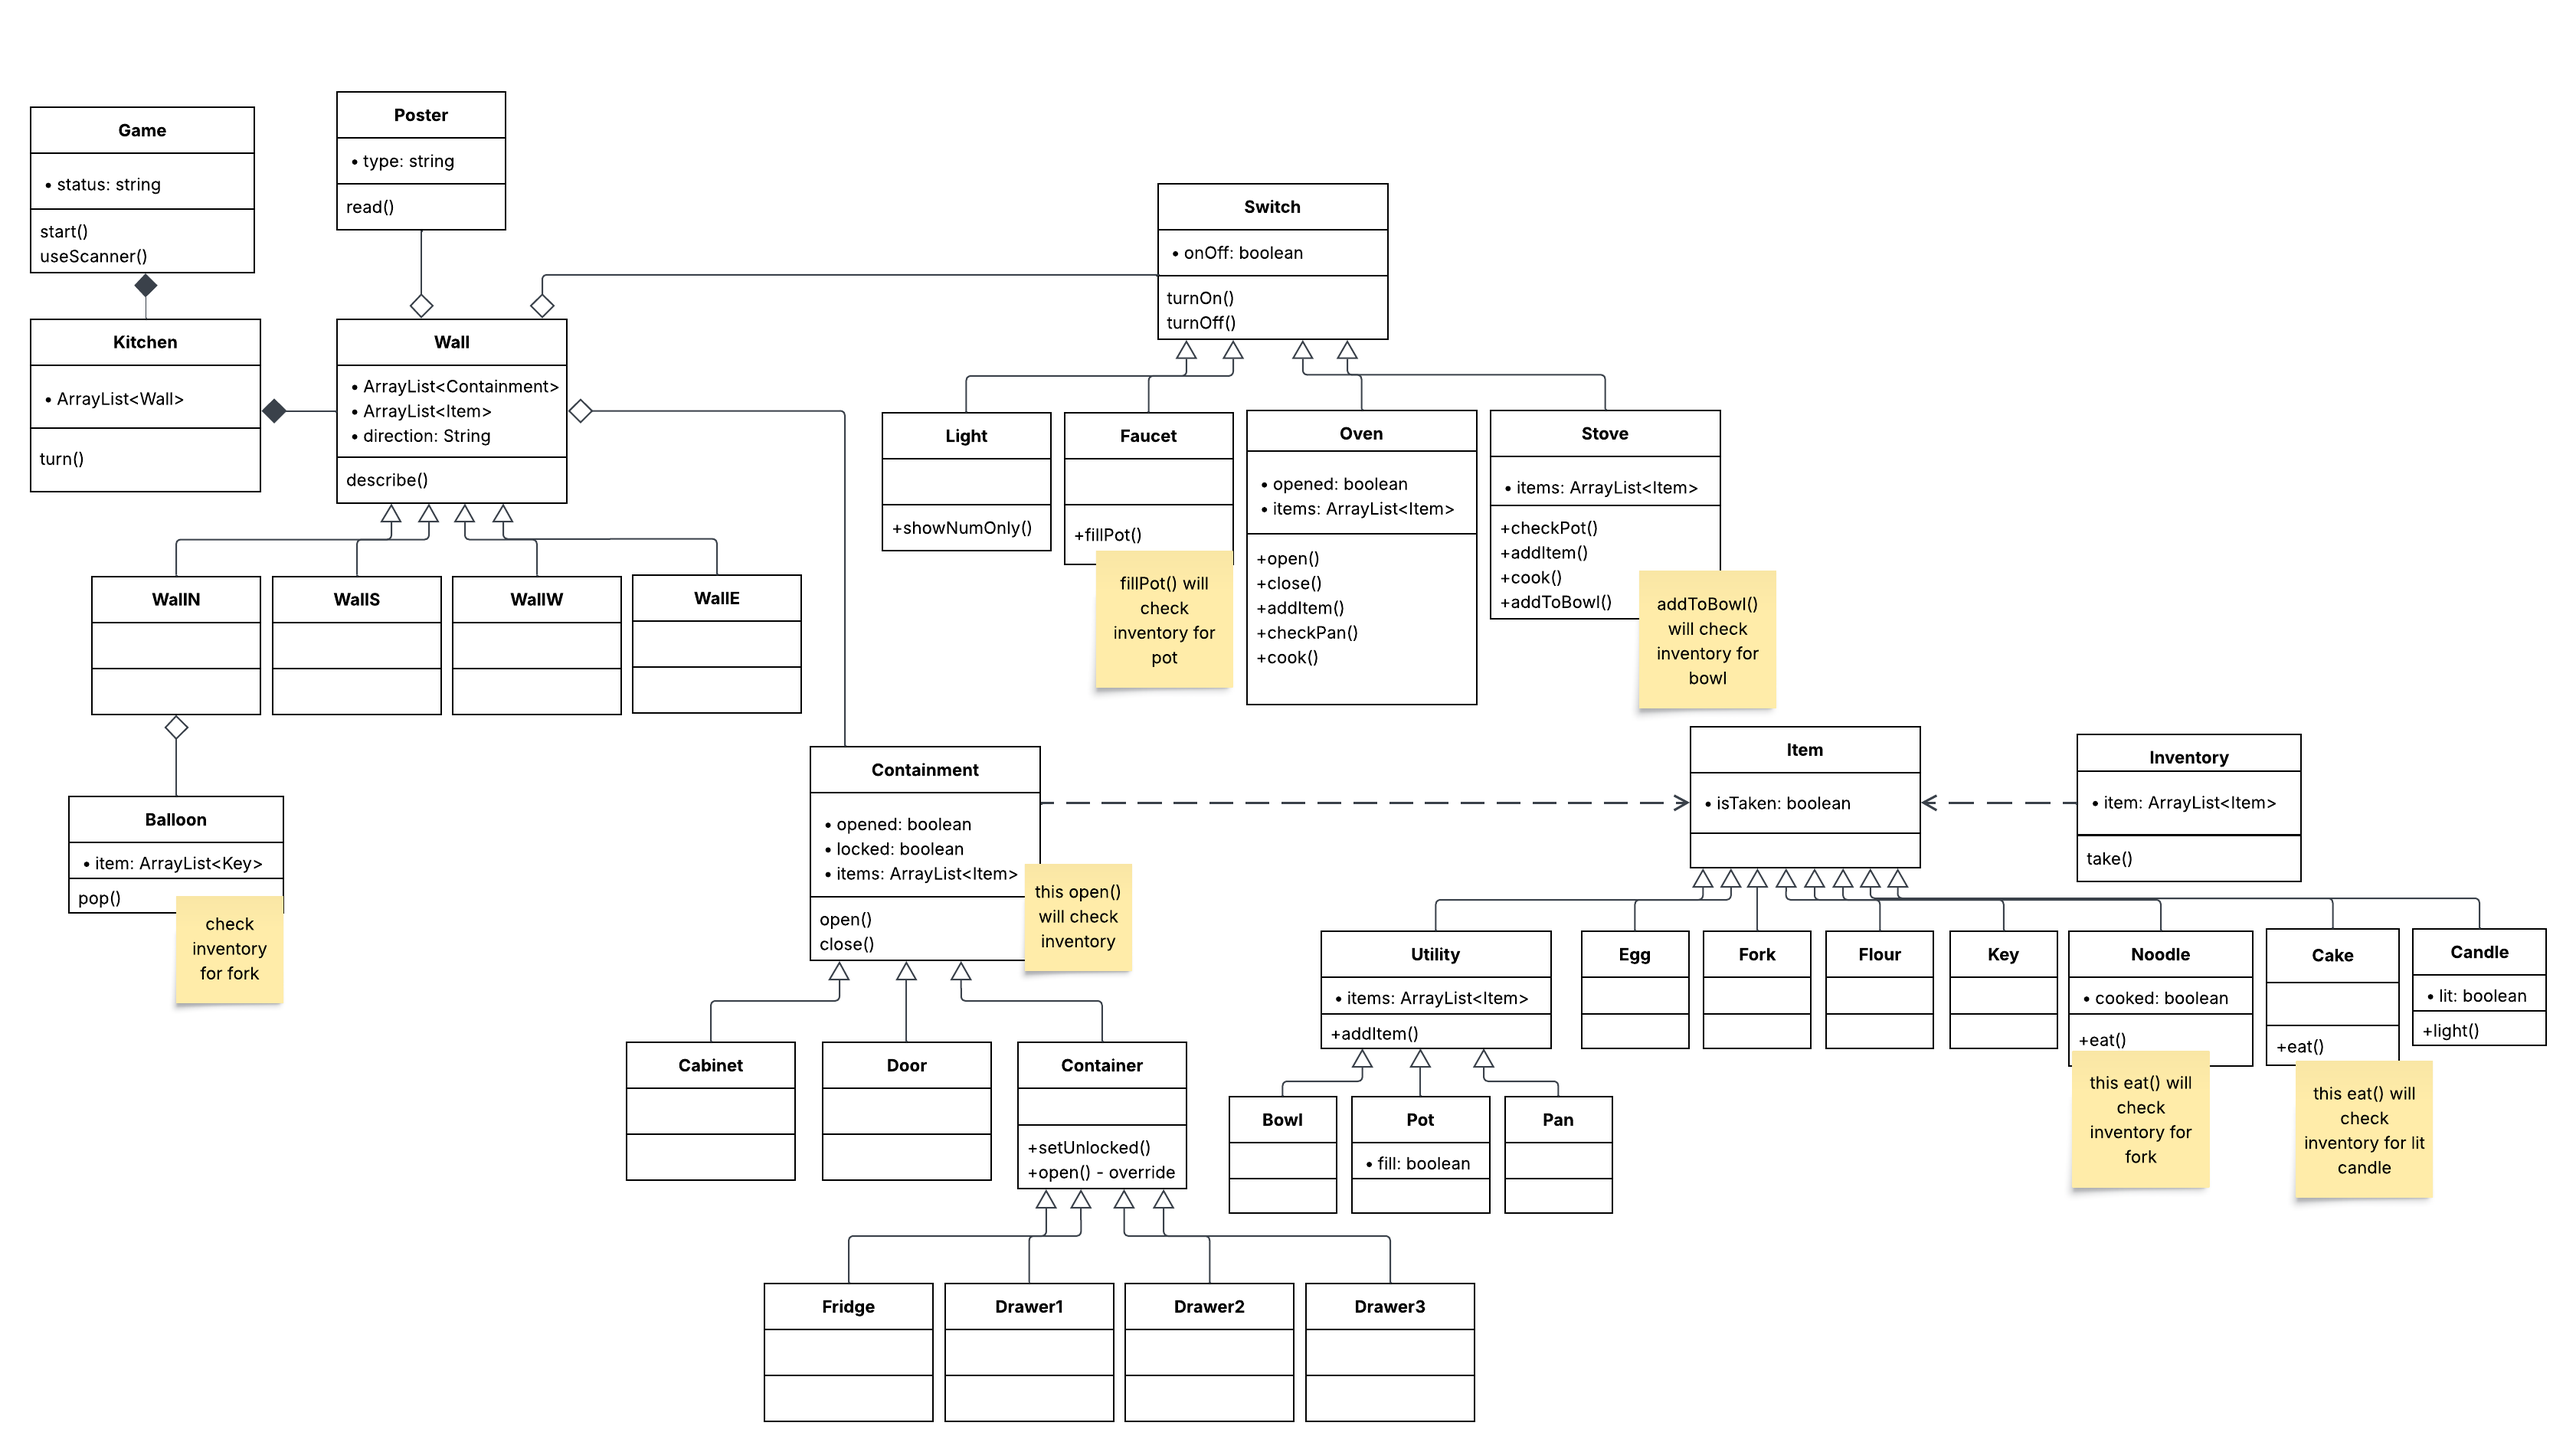
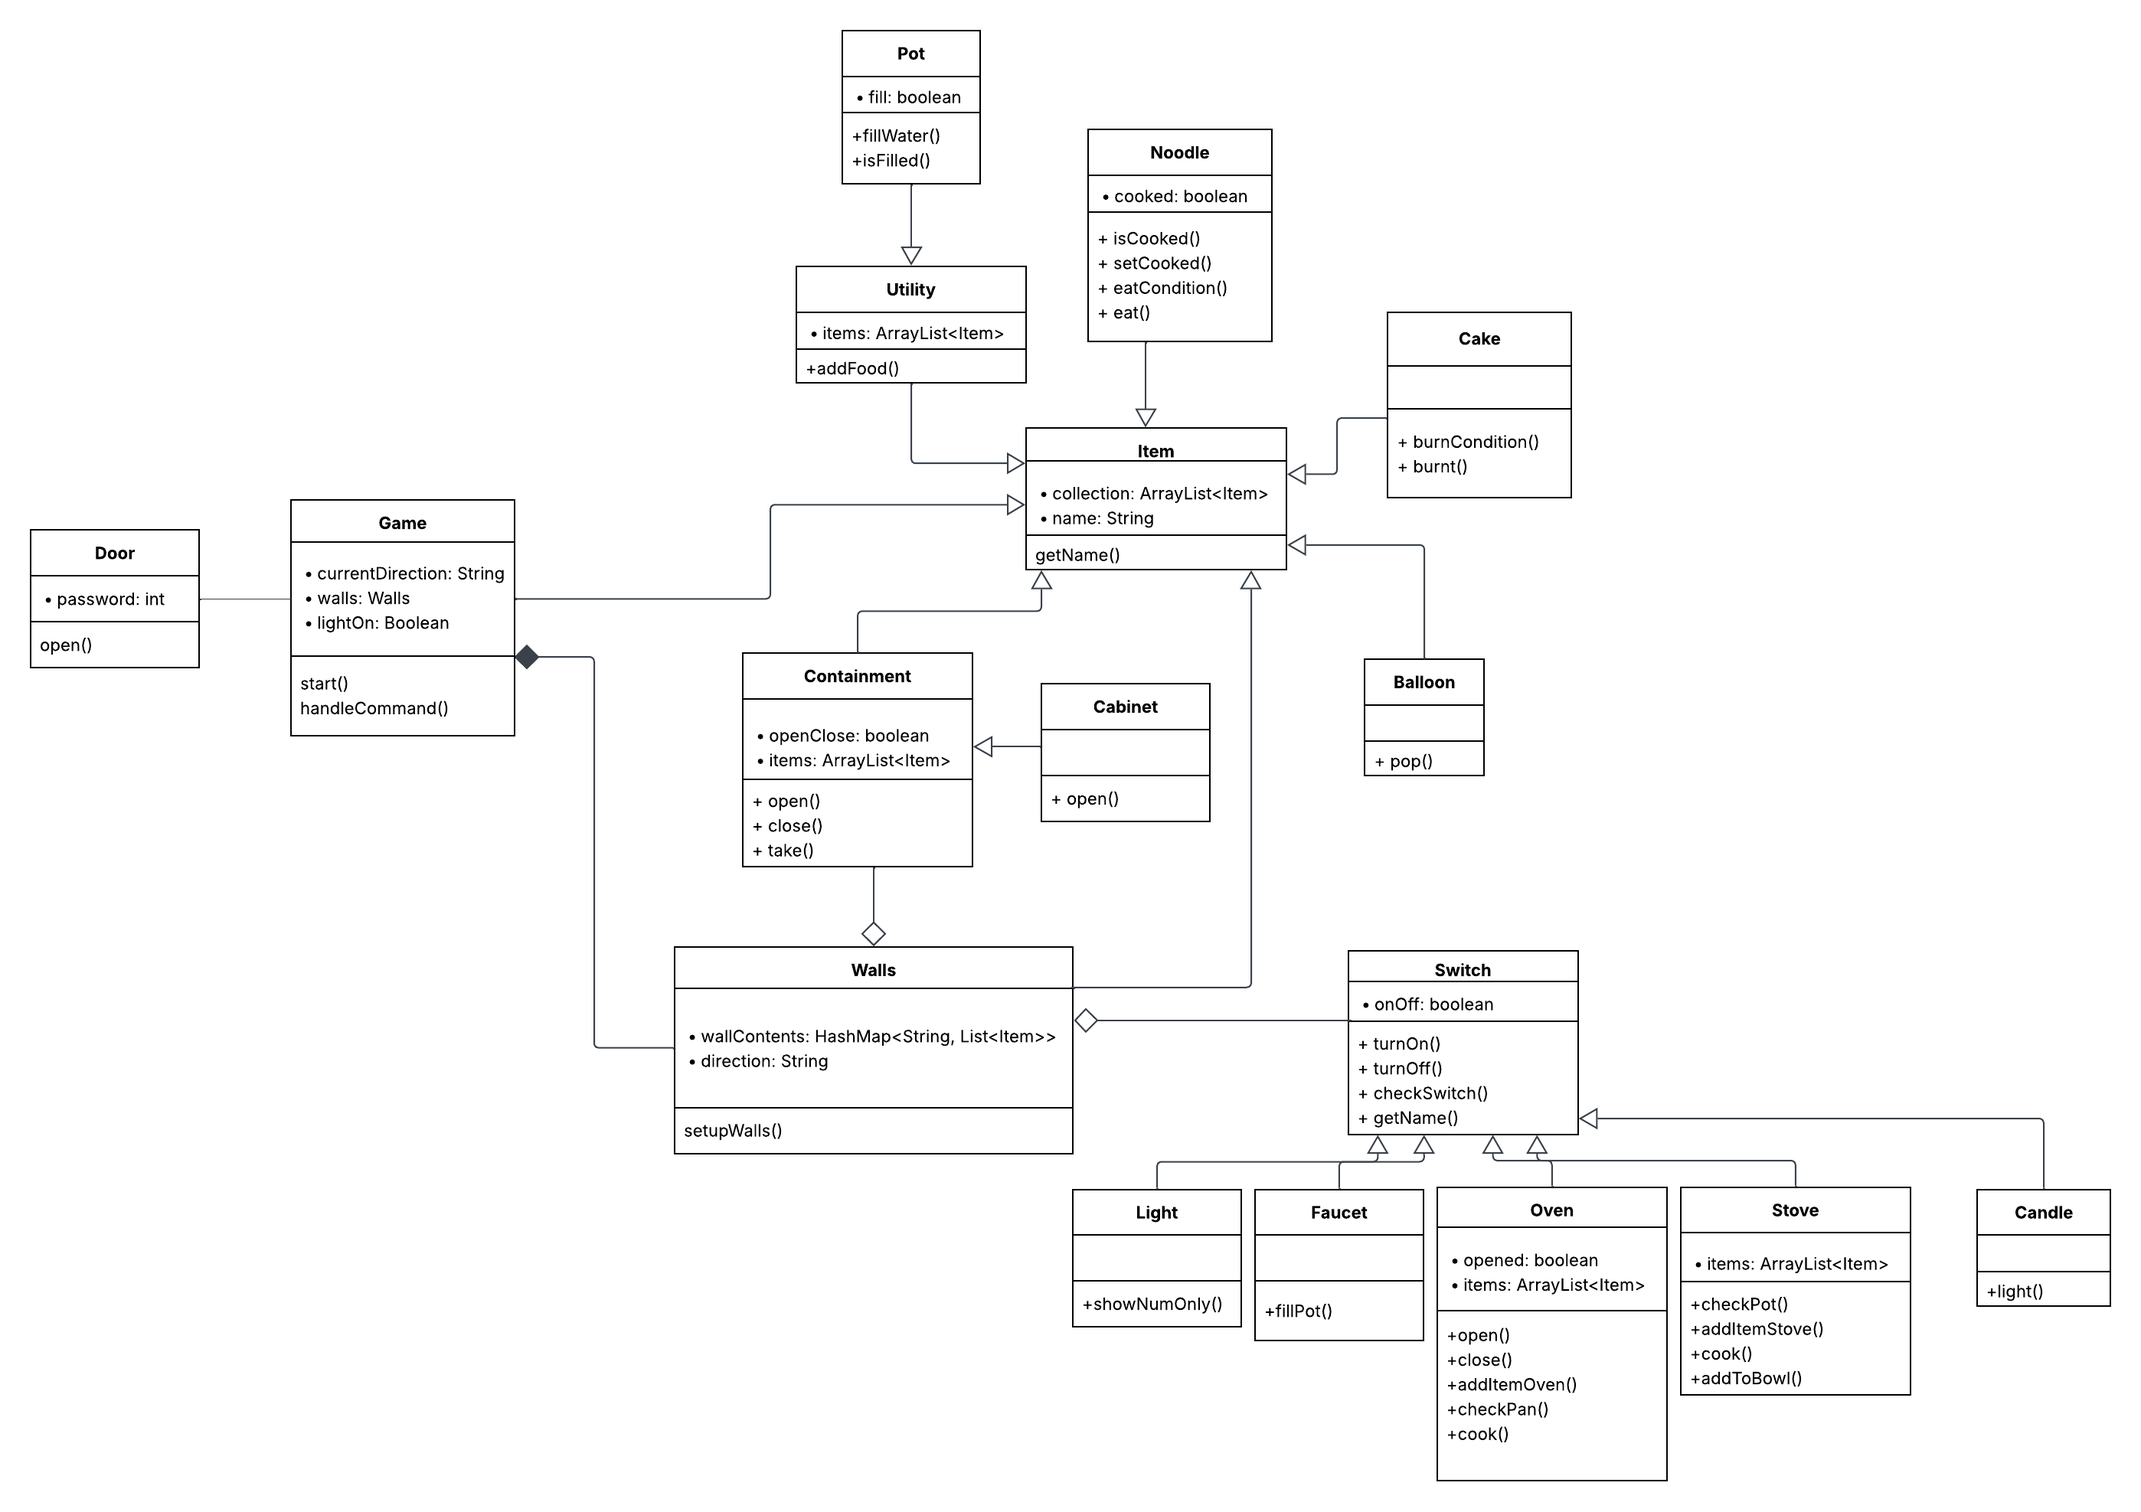
added menu and inventory check

diff --git a/Game.java b/Game.java
@@ -95,7 +95,7 @@ public class Game extends Item{
                 System.out.println("To make a cake you need: flour, an egg, and a baking pan in the oven.");
                 break;
             case "READ POSTER":
-                System.out.println("🍜 ～ 🎂 ～ 💡");
+                System.out.println("[🍜 ～ 🎂 ～ 💡]");
                 break;
             case "TURN OFF LIGHT":
                 lightOn = false;
@@ -117,6 +117,7 @@ public class Game extends Item{
             case "OPEN CABINET":
                 if (walls.wallContents.get(currentDirection).contains(cabinet)) {
                     cabinet.open();
+
                 } else {
                     System.out.println("You can’t access the cabinet from here.");
                 }
@@ -124,6 +125,7 @@ public class Game extends Item{
             case "CLOSE CABINET":
                 if (walls.wallContents.get(currentDirection).contains(cabinet)) {
                     cabinet.close();
+                    System.out.println("Cabinet closed.");
                 } else {
                     System.out.println("You can’t access the cabinet from here.");
                 }
@@ -204,6 +206,7 @@ public class Game extends Item{
             case "PUT POT ON STOVE":
                 if (walls.wallContents.get(currentDirection).contains(stove)) {
                     stove.addItemStove(pot);
+                    System.out.println("Pot is on the stove.");
                 } else {
                     System.out.println("You can’t put the pot on the stove from here.");
                 }
@@ -331,6 +334,29 @@ public class Game extends Item{
                 System.out.println("Congratulations, you WIN!");
                 System.exit(0);
                 break;
+            case "CHECK COLLECTION":
+                System.out.println("You have:");
+                for (Item item : Item.collection) {
+                    System.out.println("- " + item.getName());
+                }
+                break;
+            case "HELP":
+                System.out.println("------------[GAME MENU - Commands]----------");
+                System.out.println("|            'face' -> Face a Wall         |");
+                System.out.println("|            'take' -> Take an item        |");
+                System.out.println("|            'open' -> Open doors          |");
+                System.out.println("|           'close' -> Close doors         |");
+                System.out.println("|             'put' -> Put sth. into/in/on |");
+                System.out.println("|            'read' -> Read sth.           |");
+                System.out.println("|     'turn on/off' -> Turn on/off sth.    |");
+                System.out.println("|            'fill' -> Fill container      |");
+                System.out.println("|             'eat' -> Eat cooked food     |");
+                System.out.println("|           'light' -> light sth.          |");
+                System.out.println("|             'pop' -> pop sth.            |");
+                System.out.println("|'check collection' -> see what you have   |");
+                System.out.println("|            'help' -> Get all commands    |");
+                System.out.println("--------------[CONTINUE PLAYING]-----------");
+                break;
             default:
                 System.out.println("I don’t understand that command.");
         }
@@ -348,6 +374,25 @@ public class Game extends Item{
         if (!input.equals("START")) {
             System.out.println("You didn't start the game. Exiting...");
         }
+
+        System.out.println("------------[GAME MENU - Commands]----------");
+        System.out.println("|            'face' -> Face a Wall         |");
+        System.out.println("|            'take' -> Take an item        |");
+        System.out.println("|            'open' -> Open doors          |");
+        System.out.println("|           'close' -> Close doors         |");
+        System.out.println("|             'put' -> Put sth. into/in/on |");
+        System.out.println("|            'read' -> Read sth.           |");
+        System.out.println("|     'turn on/off' -> Turn on/off sth.    |");
+        System.out.println("|            'fill' -> Fill container      |");
+        System.out.println("|             'eat' -> Eat cooked food     |");
+        System.out.println("|           'light' -> light sth.          |");
+        System.out.println("|             'pop' -> pop sth.            |");
+        System.out.println("|'check collection' -> see what you have   |");
+        System.out.println("|            'help' -> Get all commands    |");
+        System.out.println("--------------[CONTINUE PLAYING]-----------");
+        System.out.println();
+        System.out.println("        |   [Game Starts]   |");
+        System.out.println("        V   [Game Starts]   V");
 
         // Initialize game state...
         Game game = new Game();  // Your Game class holds objects, room layout, etc.

diff --git a/README.md b/README.md
@@ -1,1 +1,5 @@
 # KitchenEscape
+
+This is the final project for **CSC 120 object-oriented programming**. 
+
+Written by ***Rainbow Gu (Smith '26), Michelle Xu (Smith '27)***
